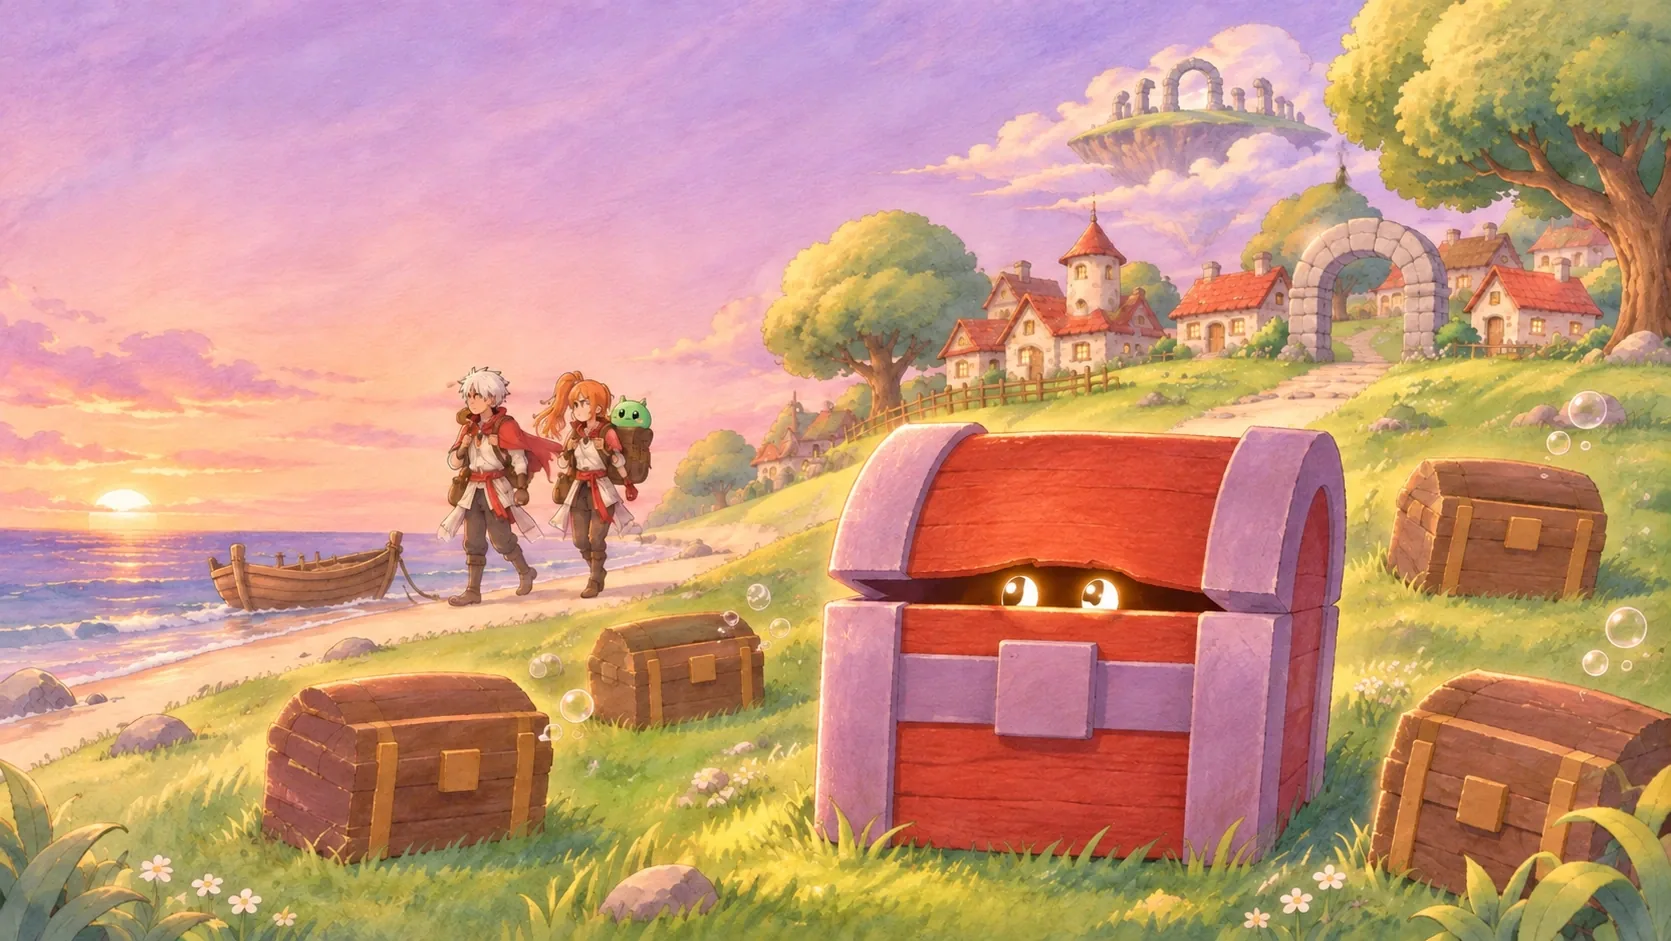
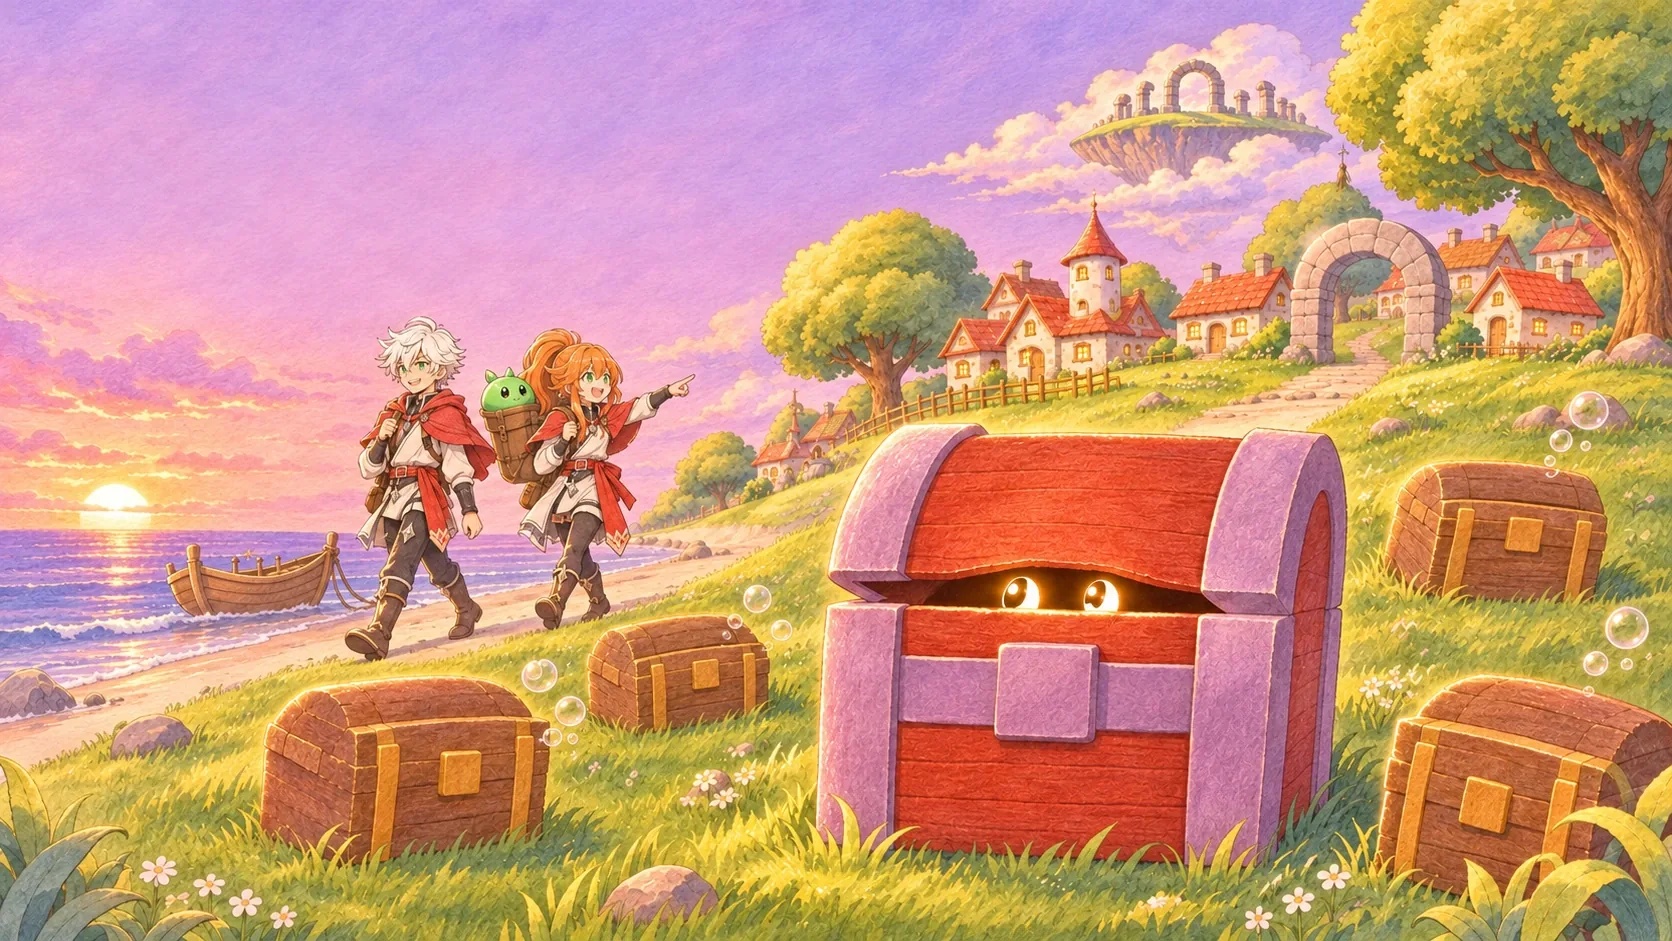
公開站背景換成遊戲標題用的 kv_title_v3（v1 獵人臉糊）；上架資料的封面更正

diff --git a/tools/build_site.py b/tools/build_site.py
@@ -26,7 +26,7 @@ def fetch(key, name, w=1600):
         open(tmp, 'wb').write(urllib.request.urlopen(req, timeout=120).read())
     p = save(tmp, name, w); os.remove(tmp); return p
 
-KV = fetch('kv_title', 'kv', 1920)
+KV = fetch('kv_title_v3', 'kv', 1920)  # 遊戲 titleCoverImage 用的是 v3；v1 獵人臉是糊的
 LORE = fetch('cg_lore_a', 'lore', 1400)
 OPEN = fetch('cg_opening', 'opening', 1400)
 SHOT3D = save(os.path.join(R, 'art/screenshots/4-wake-grandpa.webp'), 'shot_3d', 1400)

diff --git a/劇本/上架.md b/劇本/上架.md
@@ -3,7 +3,7 @@
 - 簡介：照下面這段（作者選「這樣可以」）。
 - 標籤：3D、冒險、寶箱怪、轉生、小島、短篇
 - AI 使用揭露：大量使用 AI（`aiDisclosure: {mode: "heavy"}`；REST 是 `aiUsage: "heavy"`）
-- 封面：`assets/media.json` 的 `kv_title`（2D 標題主視覺修正版）
+- 封面：`assets/media.json` 的 `kv_title_v3`（遊戲 titleCoverImage 與專案縮圖都是這張；`kv_title` 是第一版，獵人臉糊，不要用）
 - 2026-11-10 已上架：https://larch.ink/play/market/12cc23dc-9e1b-428b-9067-0c79d3d32071 （版本 1.0）。2026-11-10 重新發佈 1.0.1，已報名第四屆創作者挑戰（eventId creator-challenge-2026-11），商店頁有 6 張截圖。2026-11-10 發佈 1.1「補完主要劇情」，換上第二版簡介，不通知追蹤者。同日靜默發佈 1.1.1（吃掉不卡、族人教技能、冰原不凍、台詞修正）。
 
 ## 簡介第三版草稿（2026-11-10，1.2 繪本版用，等作者看）
